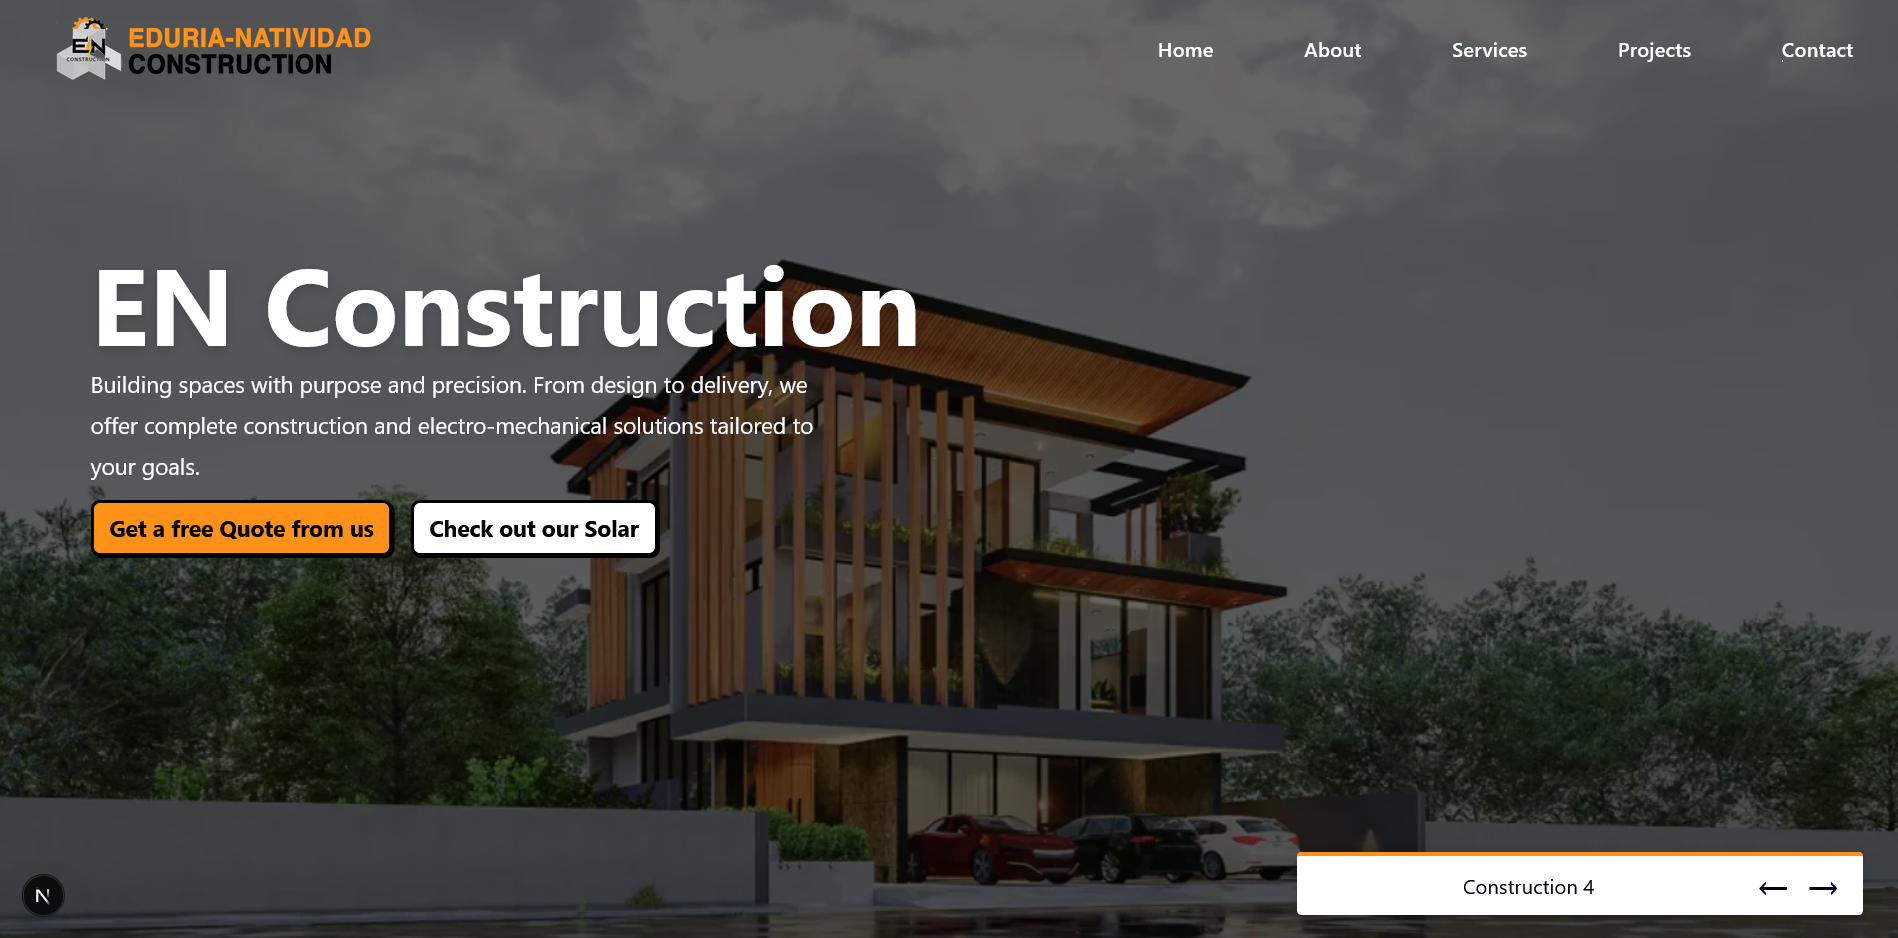
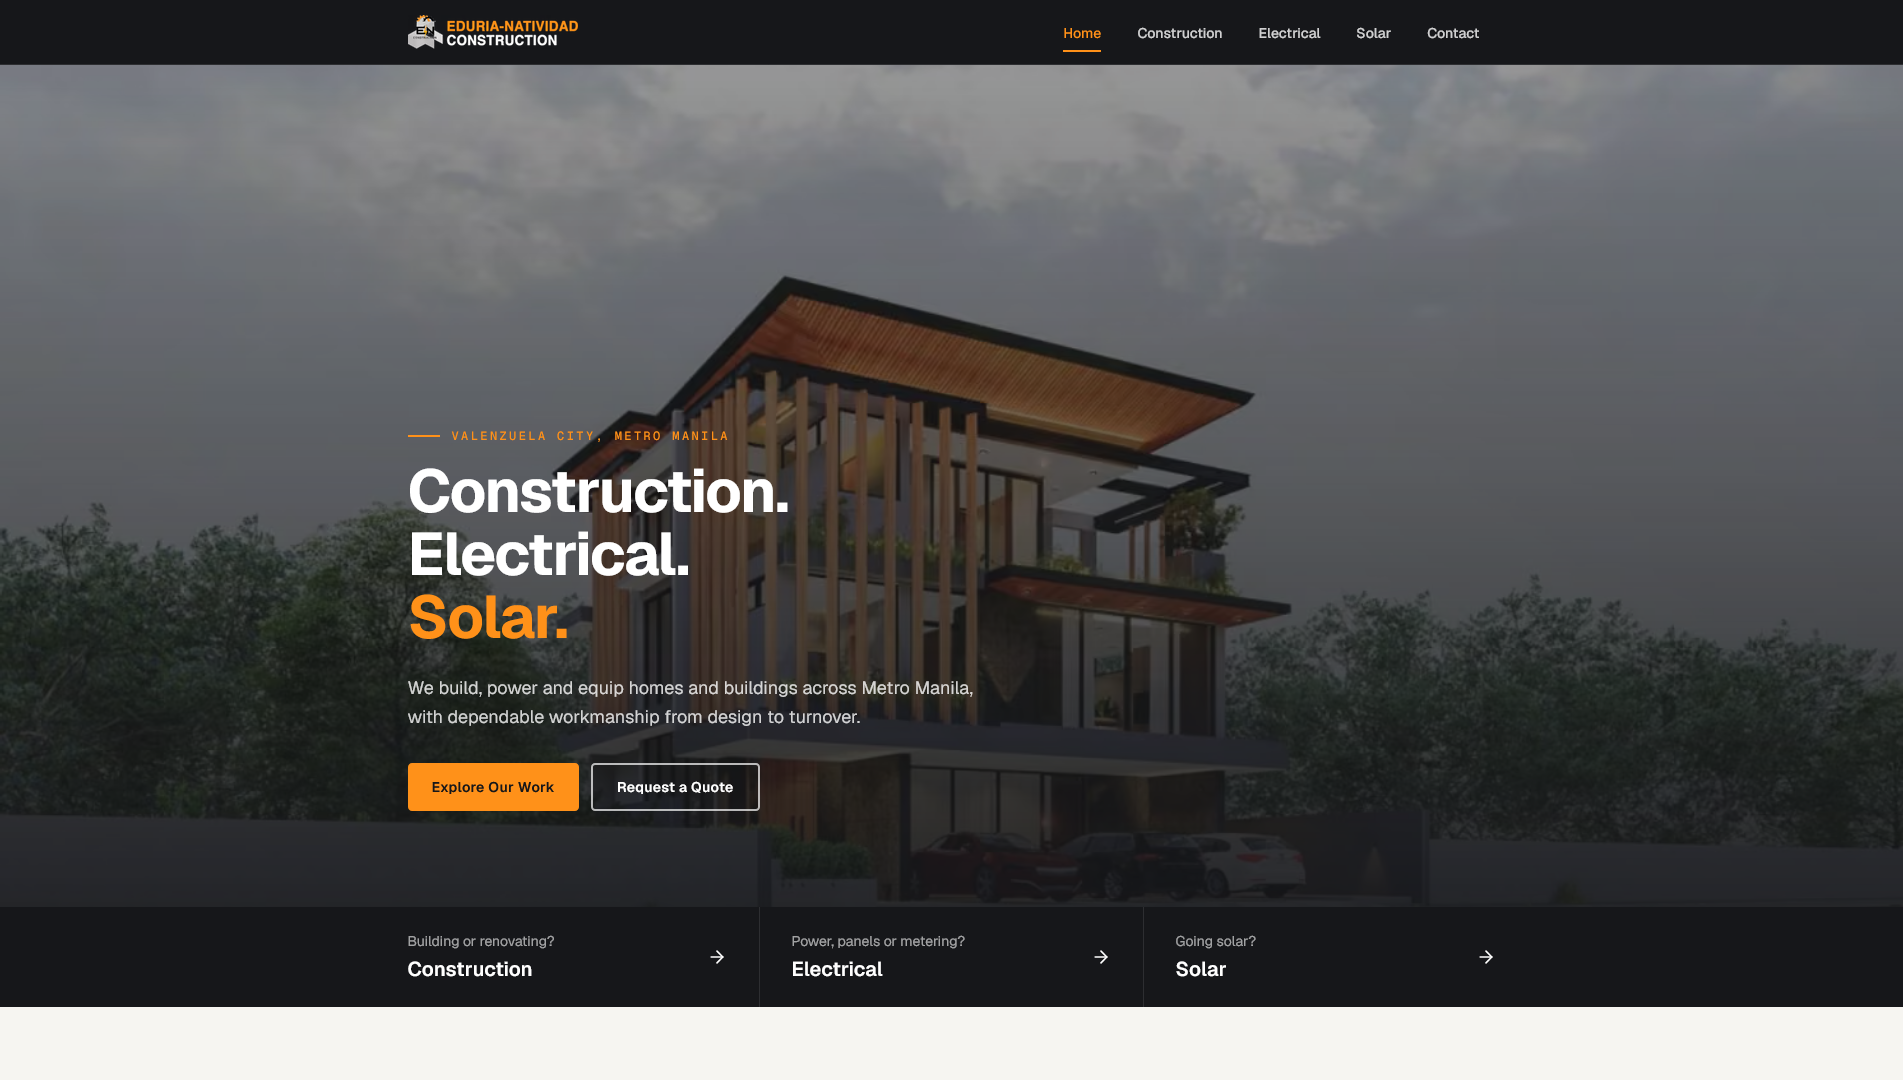
add

diff --git a/src/constants/projectData.js b/src/constants/projectData.js
@@ -1,5 +1,8 @@
-export const projectCards = [
 
+
+//all the project data is stored here, this is used to populate the project cards on the portfolio page
+
+export const projectCards = [
   {
     title: "EN-Construction",
     year: "2025",
@@ -8,6 +11,15 @@ export const projectCards = [
     fullDescription: "Built tailor-made for the company’s specific requirements right from the start, Custom landing website showcases key services and completed projects with a clean, modern design. The UI/UX was thoughtfully crafted to create an intuitive and engaging user experience. Featuring modular components, clear calls-to-action, and multiple contact options, the site is optimized for fast performance and responsiveness across devices, effectively driving client engagement and business growth.",
     tags: ["React", "TailwindCSS", "Framer Motion", "NextJs"],
     live: "https://testenconstruction.vercel.app/en-construction"
+  },
+  {
+    title: "Gabbers",
+    year: "2026",
+    image: "/images/gabbers.png",
+    shortDescription: "An invoicing SaaS for freelancers and small studios",
+    fullDescription: "Designed and built end to end as a product, not a template. Gabbers lets freelancers and small studios turn a few line items into a polished, A4-ready invoice with a live preview, automatic subtotal, discount and VAT calculations, and one-click PDF export. It defaults to Philippine peso with 12% VAT, supports multiple currencies, and lets users add Wise payment details so clients know how to pay. Secure Firebase email and password authentication with email verification and password recovery keeps each account's saved invoices separate. The Apple-inspired interface features a floating glass navbar, light and dark themes, a full landing page with pricing, a custom 404 page, and a responsive layout that holds content to a clean 960px width.",
+    tags: ["React", "Vite", "TailwindCSS", "Firebase Auth", "jsPDF"],
+    live: "https://your-gabbers-url.vercel.app"
   },
     {
     title: "NutriTakes",

diff --git a/src/index.css b/src/index.css
@@ -21,7 +21,7 @@ body {
   background-color: white;
   color: black;
 }
-
+ 
 .dark body {
   background-color: #121212; 
   color: #E5E7EB;
